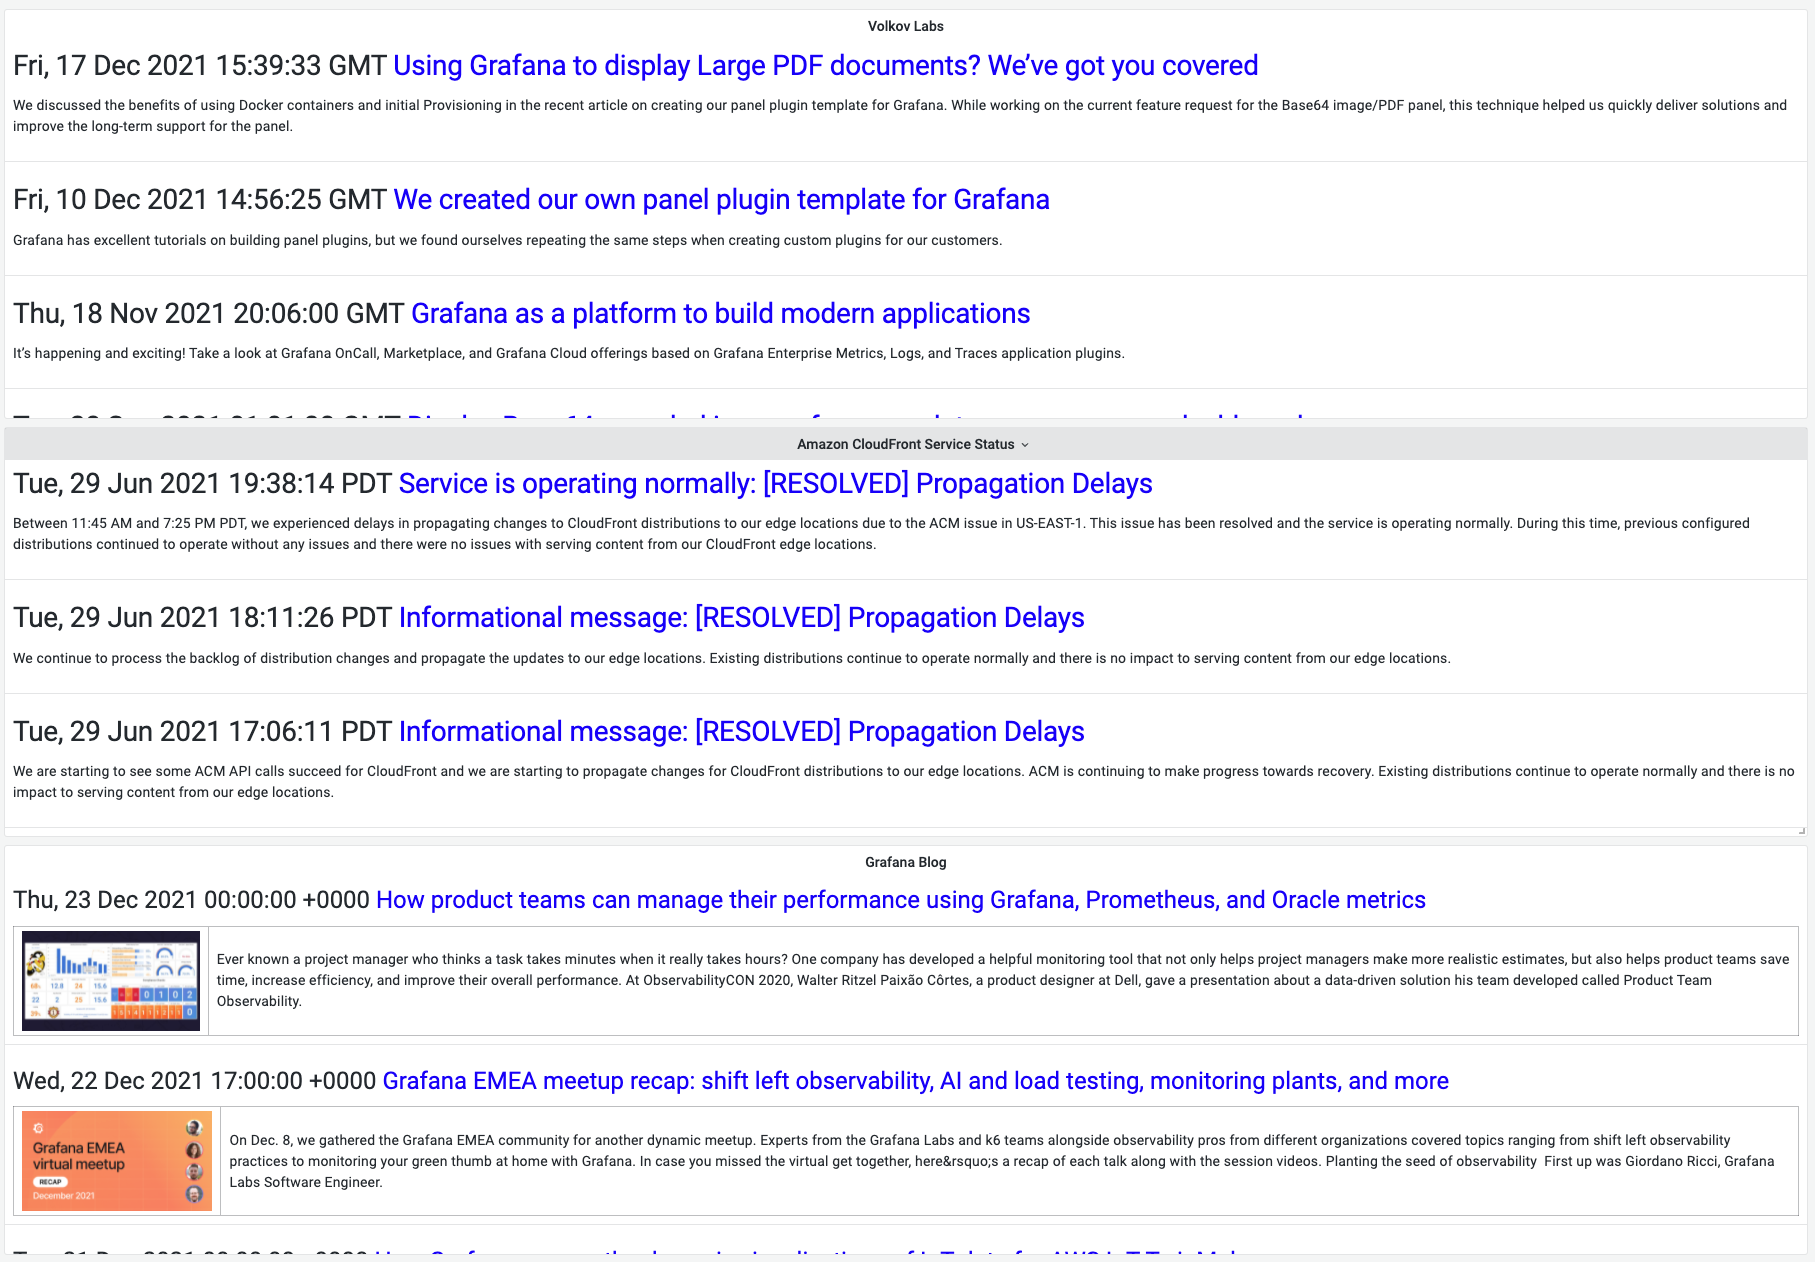
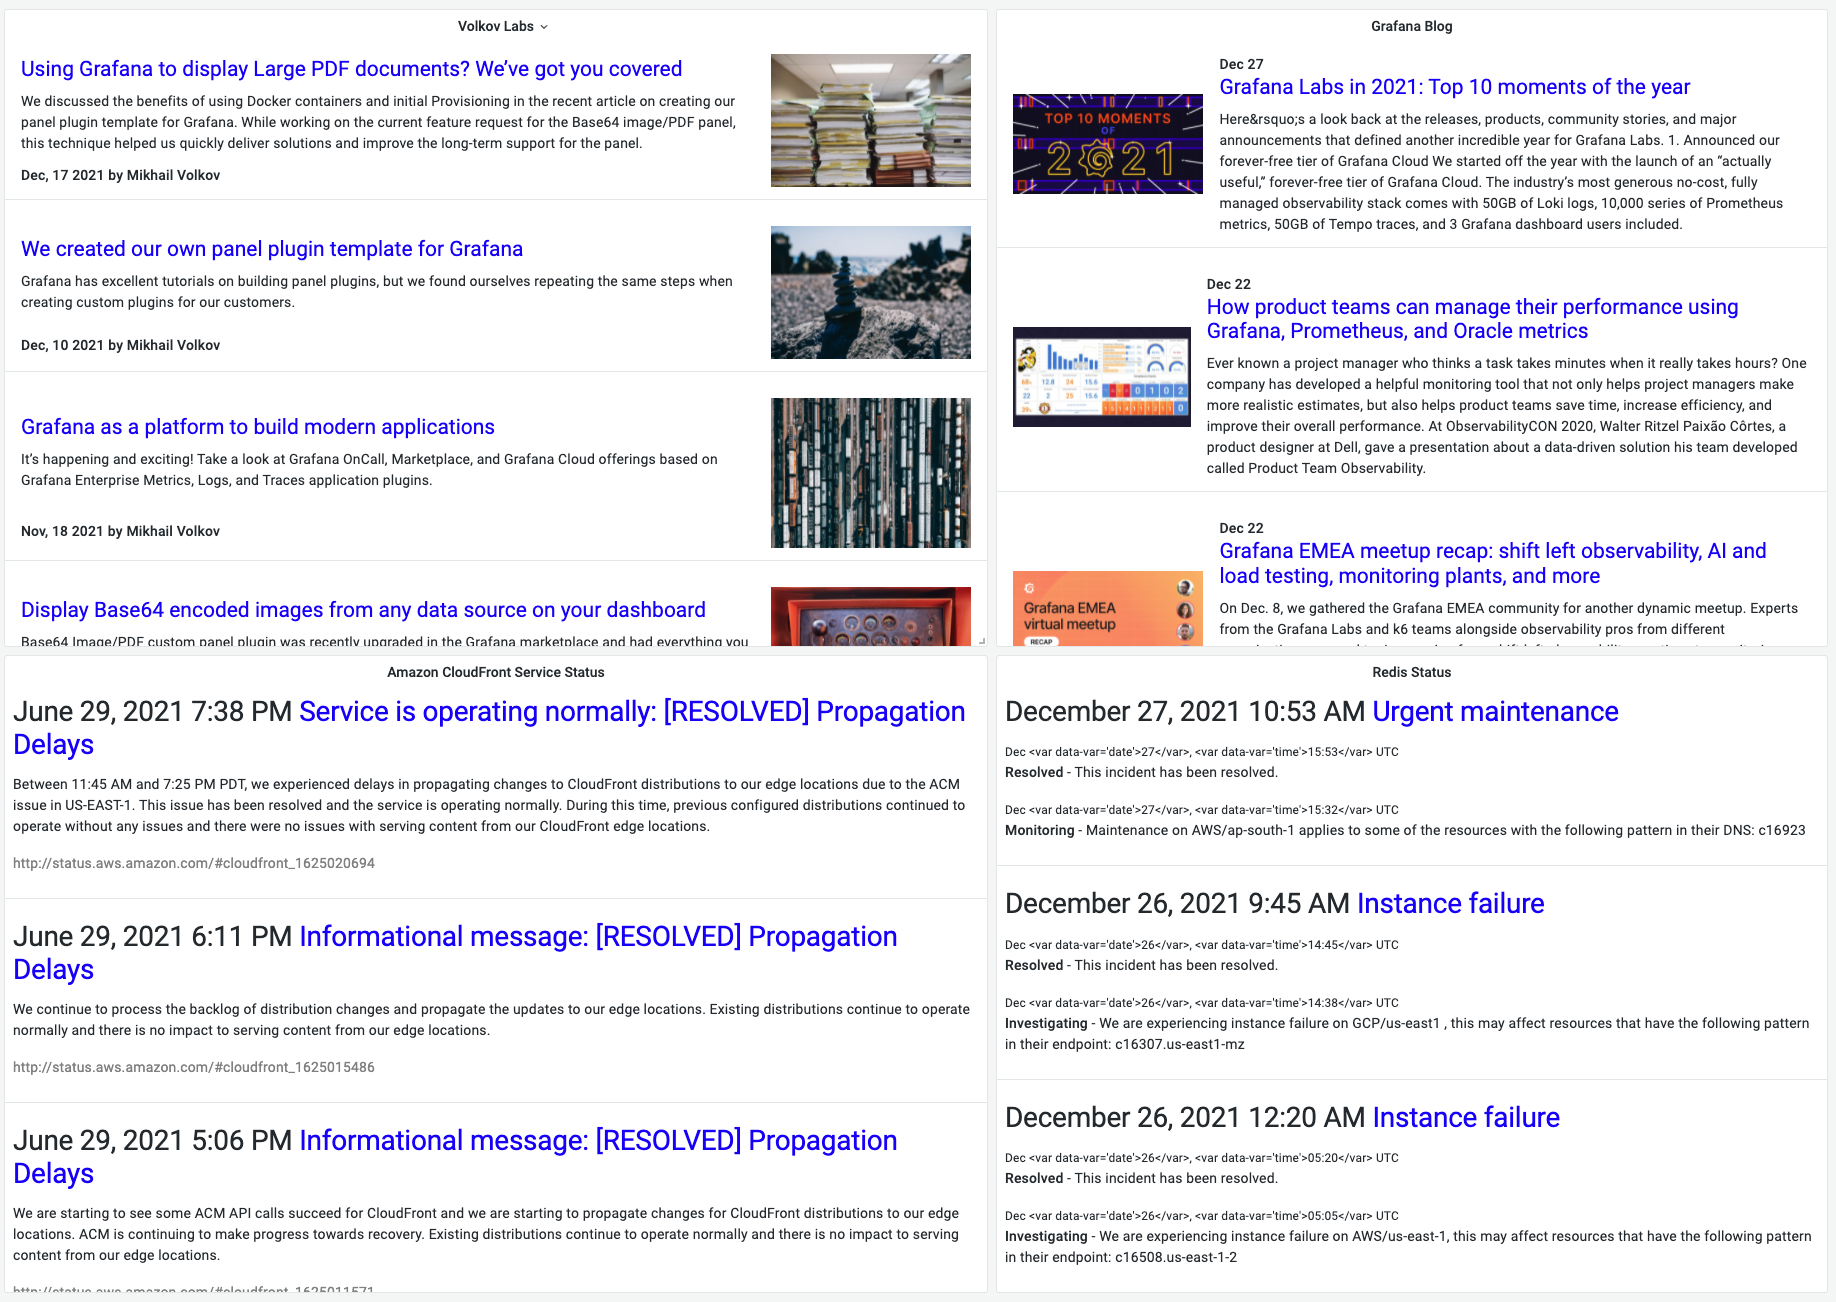
Extract img src, guid and update dashboard layout (#5)
* Extract <img src="X"> from the <figure>

* Extract Guid from <guid>

* Update dashboards

Changed region(s): [[0.0, 0.0, 1.0, 0.6799], [0.0, 0.6799, 0.9873, 1.0], [0.7405, 0.0, 0.8022, 0.0309]]

diff --git a/src/api/api.test.ts b/src/api/api.test.ts
@@ -21,7 +21,7 @@ const xmlResponse = {
   statusText: 'OK',
   ok: true,
   data:
-    '<rss version="2.0" xmlns:atom="http://www.w3.org/2005/Atom"><channel><title>Grafana Labs Blog on Grafana Labs</title><link>https://grafana.com/blog/</link><description>Recent content in Grafana Labs Blog on Grafana Labs</description><generator>Hugo -- gohugo.io</generator><language>en-us</language><atom:link href="/blog/index.xml" rel="self" type="application/rss+xml"/><item><title>How product teams can manage their performance using Grafana, Prometheus, and Oracle metrics</title><meta property="og:image" content="https://grafana.com/static/assets/img/blog/obscondelldashboard.jpg"/><link>https://grafana.com/blog/2021/12/23/how-product-teams-can-manage-their-performance-using-grafana-prometheus-and-oracle-metrics/?utm_source=grafana_news&amp;utm_medium=rss</link><pubDate>Thu, 23 Dec 2021 00:00:00 +0000</pubDate><guid>https://grafana.com/blog/2021/12/23/how-product-teams-can-manage-their-performance-using-grafana-prometheus-and-oracle-metrics/?utm_source=grafana_news&amp;utm_medium=rss&amp;src=in-prod&amp;plcmt=rss</guid><description>Ever known a project manager who thinks a task takes minutes when it really takes hours? One company has developed a helpful monitoring tool that not only helps project managers make more realistic estimates, but also helps product teams save time, increase efficiency, and improve their overall performance.\nAt ObservabilityCON 2020, Walter Ritzel Paixão Côrtes, a product designer at Dell, gave a presentation about a data-driven solution his team developed called Product Team Observability.</description></item><item><content:encoded><![CDATA[<h4>We discussed the benefits of using Docker containers and initial Provisioning in the recent article on creating our panel plugin template for Grafana. While working on the current feature request for the Base64 image/PDF panel, this technique helped us quickly deliver solutions and improve the long-term support for the panel.</h4><p>When we created a Base64 image/PDF panel to display images for one of our projects, support for PDF documents was added as a feature. I am glad the panel is being used to display PDF documents stored in the databases like PostgreSQL.</p><figure><img alt="" src="https://cdn-images-1.medium.com/max/1024/0*ZhXFfccuxa1PugIM" /></figure>]]></content:encoded><link>https://volkovlabs.com/using-grafana-to-display-large-pdf-documents-weve-got-you-covered-4e654e8d4bce?source=rss----97b04264832a---4</link></item><item><content:encoded><![CDATA[<h4 /><figure />]]></content:encoded></item><image><url>https://cdn-images-1.medium.com/proxy/1*TGH72Nnw24QL3iV9IOm4VA.png</url><title>Volkov Labs - Medium</title><link>https://volkovlabs.com?source=rss----97b04264832a---4</link></image></channel></rss>',
+    '<rss version="2.0" xmlns:atom="http://www.w3.org/2005/Atom"><channel><title>Grafana Labs Blog on Grafana Labs</title><link>https://grafana.com/blog/</link><description>Recent content in Grafana Labs Blog on Grafana Labs</description><generator>Hugo -- gohugo.io</generator><language>en-us</language><atom:link href="/blog/index.xml" rel="self" type="application/rss+xml"/><item><title>How product teams can manage their performance using Grafana, Prometheus, and Oracle metrics</title><meta property="og:image" content="https://grafana.com/static/assets/img/blog/obscondelldashboard.jpg"/><link>https://grafana.com/blog/2021/12/23/how-product-teams-can-manage-their-performance-using-grafana-prometheus-and-oracle-metrics/?utm_source=grafana_news&amp;utm_medium=rss</link><pubDate>Thu, 23 Dec 2021 00:00:00 +0000</pubDate><guid isPermaLink="false">https://grafana.com/blog/2021/12/23/how-product-teams-can-manage-their-performance-using-grafana-prometheus-and-oracle-metrics/?utm_source=grafana_news&amp;utm_medium=rss&amp;src=in-prod&amp;plcmt=rss</guid><description>Ever known a project manager who thinks a task takes minutes when it really takes hours? One company has developed a helpful monitoring tool that not only helps project managers make more realistic estimates, but also helps product teams save time, increase efficiency, and improve their overall performance.\nAt ObservabilityCON 2020, Walter Ritzel Paixão Côrtes, a product designer at Dell, gave a presentation about a data-driven solution his team developed called Product Team Observability.</description></item><item><content:encoded><![CDATA[<h4>We discussed the benefits of using Docker containers and initial Provisioning in the recent article on creating our panel plugin template for Grafana. While working on the current feature request for the Base64 image/PDF panel, this technique helped us quickly deliver solutions and improve the long-term support for the panel.</h4><p>When we created a Base64 image/PDF panel to display images for one of our projects, support for PDF documents was added as a feature. I am glad the panel is being used to display PDF documents stored in the databases like PostgreSQL.</p><figure><img alt="" src="https://cdn-images-1.medium.com/max/1024/0*ZhXFfccuxa1PugIM" /></figure>]]></content:encoded><link>https://volkovlabs.com/using-grafana-to-display-large-pdf-documents-weve-got-you-covered-4e654e8d4bce?source=rss----97b04264832a---4</link></item><item><content:encoded><![CDATA[<h4 /><figure />]]></content:encoded></item><image><url>https://cdn-images-1.medium.com/proxy/1*TGH72Nnw24QL3iV9IOm4VA.png</url><title>Volkov Labs - Medium</title><link>https://volkovlabs.com?source=rss----97b04264832a---4</link></image></channel></rss>',
   headers: {},
   url: 'http://localhost:3000/api/datasources/proxy/3/feed',
   type: 'basic',
@@ -108,11 +108,19 @@ describe('Api', () => {
       expect(result?.length).toEqual(0);
     });
 
-    it('Should handle getFeed request for Atom with broken image', async () => {
+    it('Should handle getFeed request for Atom with title only', async () => {
       xmlResponse.data =
         '<rss version="2.0" xmlns:atom="http://www.w3.org/2005/Atom"><channel><title>Test</title></channel></rss>';
 
       let result = await api.getFeed({ refId: 'A', feedType: FeedTypeValue.ALL });
+      expect(result?.length).toEqual(1);
+    });
+
+    it('Should handle getFeed request for Atom with image and no src', async () => {
+      xmlResponse.data =
+        '<rss version="2.0" xmlns:atom="http://www.w3.org/2005/Atom"><channel><item><content:encoded><![CDATA[<h4>Test.</h4><figure><img alt="" src="" /></figure>]]></content:encoded></item><item><content:encoded><![CDATA[<h4 /><figure />]]></content:encoded></item></channel></rss>';
+
+      let result = await api.getFeed({ refId: 'A', feedType: FeedTypeValue.ITEMS });
       expect(result?.length).toEqual(1);
     });
   });

diff --git a/src/api/api.ts b/src/api/api.ts
@@ -97,6 +97,13 @@ export class Api {
           }
 
           /**
+           * Parse Guid
+           */
+          if (key === ItemKeys.GUID && value['#text']) {
+            value = value['#text'];
+          }
+
+          /**
            * Parse Encoded content for H4 and first Image
            */
           if (key === ItemKeys.CONTENT_ENCODED) {
@@ -104,7 +111,15 @@ export class Api {
             const figure = value.match(/<figure>(.*?)<\/figure>/);
 
             setItem(items, ItemKeys.CONTENT_H4, h4?.length ? h4[1] : '');
-            setItem(items, ItemKeys.CONTENT_IMG, figure?.length ? figure[1] : '');
+
+            /**
+             * Extract image and source
+             */
+            if (figure?.length) {
+              setItem(items, ItemKeys.CONTENT_IMG, figure[1]);
+              const img = figure[1].match(/<img.+src\=(?:\"|\')(.+?)(?:\"|\')(?:.+?)\>/);
+              setItem(items, ItemKeys.CONTENT_IMG_SRC, img?.length ? img[1] : '');
+            }
           }
 
           setItem(items, key, value);

diff --git a/src/constants.ts b/src/constants.ts
@@ -54,8 +54,10 @@ export enum ItemKeys {
   LINK = 'link',
   CONTENT = 'content',
   META = 'meta',
+  GUID = 'guid',
   CONTENT_ENCODED = 'content:encoded',
   CONTENT_H4 = 'content:h4',
   CONTENT_IMG = 'content:img',
+  CONTENT_IMG_SRC = 'content:img-src',
   PUB_DATE = 'pubDate',
 }

diff --git a/CHANGELOG.md b/CHANGELOG.md
@@ -1,5 +1,13 @@
 # Change Log
 
+## 1.1.0 (2021-12-27)
+
+### Features / Enhancements
+
+- Extract <img src="X"> from the <figure> (#5)
+- Extract Guid's text from the <guid> (#5)
+- Update dashboards layout
+
 ## 1.0.0 (2021-12-26)
 
 ### Features / Enhancements
